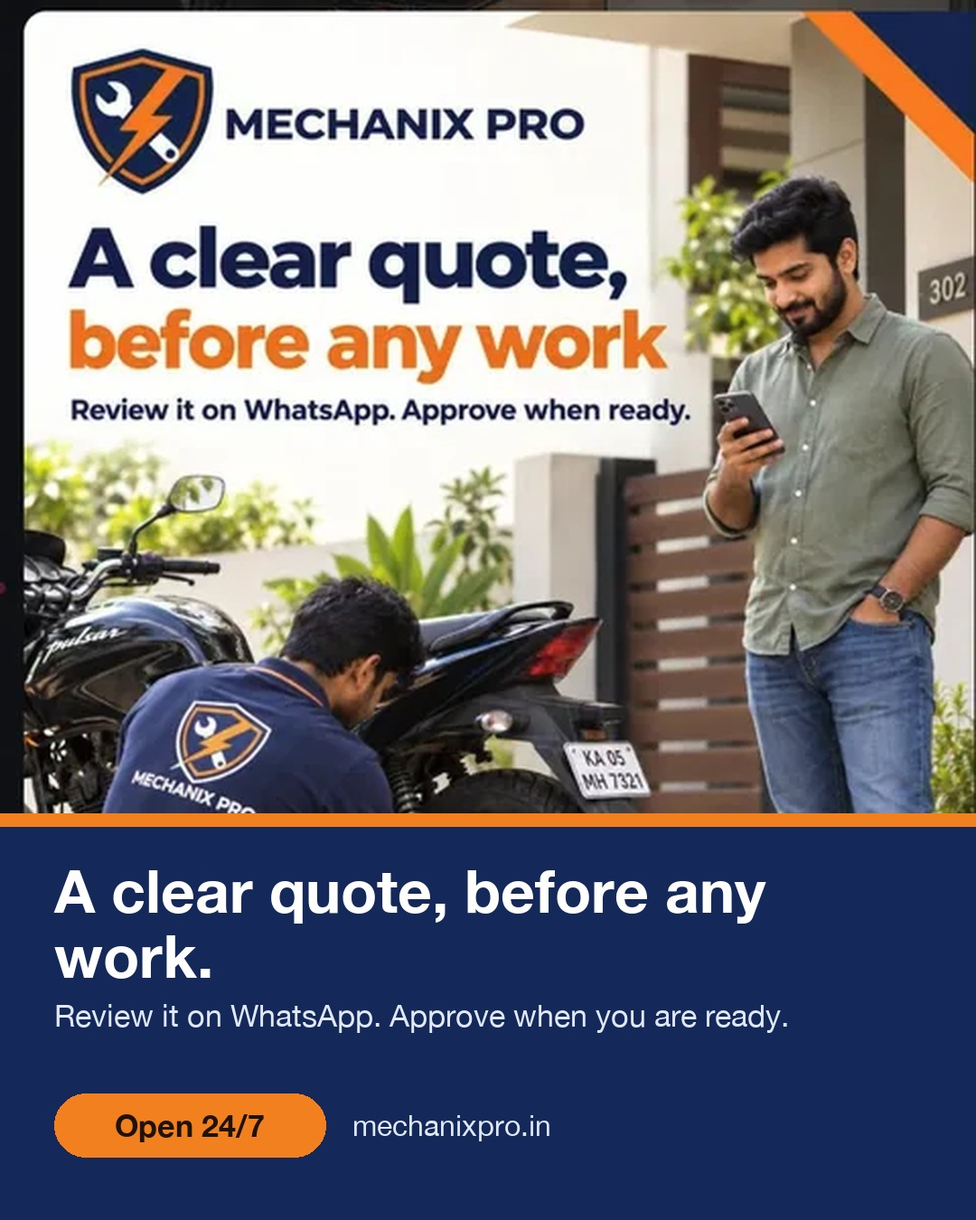
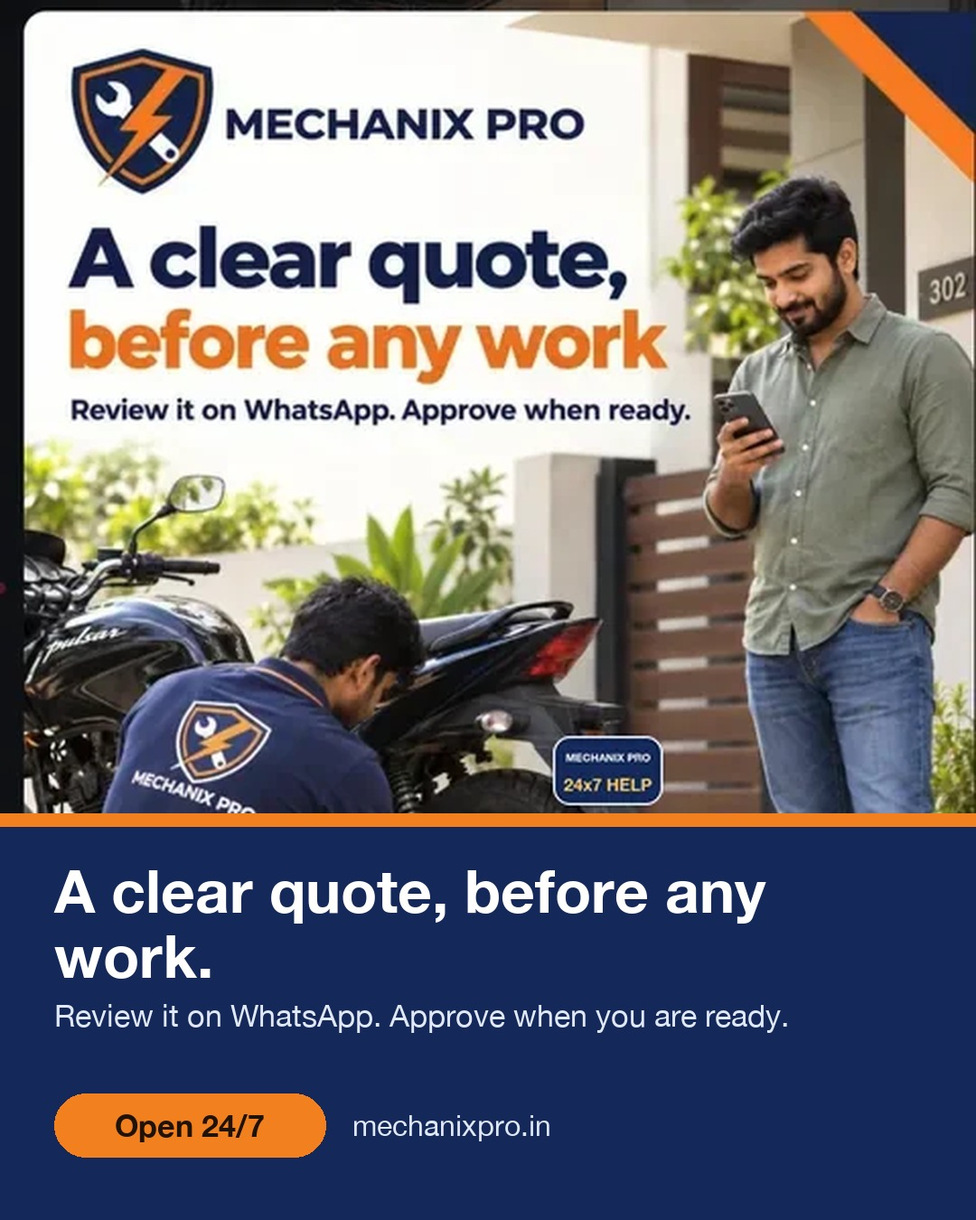
WhatsApp journey messages (quote ready, booking confirmed, service done), number plates covered with a branded plate in the site pictures

Changed region(s): [[0.55, 0.5911, 0.7028, 0.6844]]

diff --git a/src/home.html b/src/home.html
@@ -32,7 +32,7 @@
         <div class="pv-total tear"><span>Estimate, GST included</span><b id="pvPrice">₹0</b></div>
       </div>
     </div>
-    <figure class="hero-cut"><img src="/assets/img/hero-roadside.webp" width="720" height="927" decoding="async" fetchpriority="high" alt="A Mechanix Pro mechanic in a high-visibility vest repairs a scooter by the roadside while the rider looks on, from our Instagram"></figure>
+    <figure class="hero-cut"><img src="/assets/img/hero-roadside-p.webp" width="720" height="927" decoding="async" fetchpriority="high" alt="A Mechanix Pro mechanic in a high-visibility vest repairs a scooter by the roadside while the rider looks on, from our Instagram"></figure>
   </div>
 </section>
 <div class="ticker" aria-hidden="true"><div class="tk-track"><span>Open 24/7</span><span>Quote first</span><span>Doorstep bike service</span><span>Roadside help</span><span>OEM and aftermarket parts</span><span>{{days}}-day warranty</span><span>Open 24/7</span><span>Quote first</span><span>Doorstep bike service</span><span>Roadside help</span><span>OEM and aftermarket parts</span><span>{{days}}-day warranty</span></div></div>
@@ -85,7 +85,7 @@
     <div class="sec-head"><h2 id="exp-h">See how it feels.</h2><p>From your first message to the finished ride, in three moments. Swipe through.</p></div>
   </div>
   <div class="st-rail-wrap">
-    <ul class="st-rail" tabindex="0" role="region" aria-label="Mechanix Pro experience, scroll sideways" data-stories><li class="st-card"><a class="st-media" href="#" data-wa="general" data-wa-text="Hi Mechanix Pro, I need a quote for my bike in Bengaluru.&#10;Bike model: &#10;Area: "><img src="/assets/img/stories/clear-quote.webp" width="480" height="640" loading="lazy" decoding="async" alt="Scene from our Instagram: a customer checks a quote on their phone while a Mechanix Pro mechanic works on a bike"><span class="st-chip">Ask first</span></a><div class="st-copy"><h3>A clear quote, before any work.</h3><p>Tell us your bike on WhatsApp. You get a quote first and approve it when you are ready.</p><a class="st-go" href="#" data-wa="general" data-wa-text="Hi Mechanix Pro, I need a quote for my bike in Bengaluru.&#10;Bike model: &#10;Area: ">Get a quote <i aria-hidden="true">&rarr;</i></a></div></li><li class="st-card"><a class="st-media" href="/book/?service=repair"><img src="/assets/img/stories/repair-check.webp" width="480" height="640" loading="lazy" decoding="async" alt="Scene from our Instagram: a customer watches a Mechanix Pro mechanic inspect a motorcycle in an apartment parking area"><span class="st-chip">Ask first</span></a><div class="st-copy"><h3>Stop guessing the problem.</h3><p>A problem check finds the cause and quotes the fix before any work starts.</p><a class="st-go" href="/book/?service=repair">Book a problem check <i aria-hidden="true">&rarr;</i></a></div></li><li class="st-card"><a class="st-media" href="/book/"><img src="/assets/img/stories/doorstep-service.webp" width="480" height="640" loading="lazy" decoding="async" alt="Scene from our Instagram: a mechanic crouches beside a motorcycle with a tool tray open on the ground"><span class="st-chip">At your door</span></a><div class="st-copy"><h3>Bike service at your doorstep.</h3><p>Oil check, chain lube, brake adjust and a wash, right where your bike is parked.</p><a class="st-go" href="/book/">Build your service <i aria-hidden="true">&rarr;</i></a></div></li><li class="st-card"><a class="st-media" href="/help/"><img src="/assets/img/stories/doorstep-trust.webp" width="480" height="640" loading="lazy" decoding="async" alt="Scene from our Instagram: a mechanic services a white scooter outside an apartment building"><span class="st-chip">At your door</span></a><div class="st-copy"><h3>Service you can trust.</h3><p>A clear WhatsApp quote before any work, and nothing starts until you say yes.</p><a class="st-go" href="/help/">See how it works <i aria-hidden="true">&rarr;</i></a></div></li><li class="st-card"><a class="st-media" href="/services/"><img src="/assets/img/stories/full-service.webp" width="480" height="640" loading="lazy" decoding="async" alt="Scene from our Instagram: a customer stands beside his motorcycle with a list of checks shown"><span class="st-chip">At your door</span></a><div class="st-copy"><h3>A full bike checkup.</h3><p>Smoother ride, brake check and a polished finish. Starting prices are on our Services page.</p><a class="st-go" href="/services/">See prices <i aria-hidden="true">&rarr;</i></a></div></li><li class="st-card"><a class="st-media" href="/roadside/"><img src="/assets/img/stories/roadside-rain.webp" width="480" height="640" loading="lazy" decoding="async" alt="Scene from our Instagram: a mechanic in a high-visibility vest fixes a scooter by the roadside in the rain"><span class="st-chip">On the road</span></a><div class="st-copy"><h3>Help when you need it.</h3><p>Puncture, battery or breakdown. Share your location and we come to you.</p><a class="st-go" href="/roadside/">Get roadside help <i aria-hidden="true">&rarr;</i></a></div></li></ul>
+    <ul class="st-rail" tabindex="0" role="region" aria-label="Mechanix Pro experience, scroll sideways" data-stories><li class="st-card"><a class="st-media" href="#" data-wa="general" data-wa-text="Hi Mechanix Pro, I need a quote for my bike in Bengaluru.&#10;Bike model: &#10;Area: "><img src="/assets/img/stories/clear-quote-p.webp" width="480" height="640" loading="lazy" decoding="async" alt="Scene from our Instagram: a customer checks a quote on their phone while a Mechanix Pro mechanic works on a bike"><span class="st-chip">Ask first</span></a><div class="st-copy"><h3>A clear quote, before any work.</h3><p>Tell us your bike on WhatsApp. You get a quote first and approve it when you are ready.</p><a class="st-go" href="#" data-wa="general" data-wa-text="Hi Mechanix Pro, I need a quote for my bike in Bengaluru.&#10;Bike model: &#10;Area: ">Get a quote <i aria-hidden="true">&rarr;</i></a></div></li><li class="st-card"><a class="st-media" href="/book/?service=repair"><img src="/assets/img/stories/repair-check-p.webp" width="480" height="640" loading="lazy" decoding="async" alt="Scene from our Instagram: a customer watches a Mechanix Pro mechanic inspect a motorcycle in an apartment parking area"><span class="st-chip">Ask first</span></a><div class="st-copy"><h3>Stop guessing the problem.</h3><p>A problem check finds the cause and quotes the fix before any work starts.</p><a class="st-go" href="/book/?service=repair">Book a problem check <i aria-hidden="true">&rarr;</i></a></div></li><li class="st-card"><a class="st-media" href="/book/"><img src="/assets/img/stories/doorstep-service-p.webp" width="480" height="640" loading="lazy" decoding="async" alt="Scene from our Instagram: a mechanic crouches beside a motorcycle with a tool tray open on the ground"><span class="st-chip">At your door</span></a><div class="st-copy"><h3>Bike service at your doorstep.</h3><p>Oil check, chain lube, brake adjust and a wash, right where your bike is parked.</p><a class="st-go" href="/book/">Build your service <i aria-hidden="true">&rarr;</i></a></div></li><li class="st-card"><a class="st-media" href="/help/"><img src="/assets/img/stories/doorstep-trust-p.webp" width="480" height="640" loading="lazy" decoding="async" alt="Scene from our Instagram: a mechanic services a white scooter outside an apartment building"><span class="st-chip">At your door</span></a><div class="st-copy"><h3>Service you can trust.</h3><p>A clear WhatsApp quote before any work, and nothing starts until you say yes.</p><a class="st-go" href="/help/">See how it works <i aria-hidden="true">&rarr;</i></a></div></li><li class="st-card"><a class="st-media" href="/services/"><img src="/assets/img/stories/full-service-p.webp" width="480" height="640" loading="lazy" decoding="async" alt="Scene from our Instagram: a customer stands beside his motorcycle with a list of checks shown"><span class="st-chip">At your door</span></a><div class="st-copy"><h3>A full bike checkup.</h3><p>Smoother ride, brake check and a polished finish. Starting prices are on our Services page.</p><a class="st-go" href="/services/">See prices <i aria-hidden="true">&rarr;</i></a></div></li><li class="st-card"><a class="st-media" href="/roadside/"><img src="/assets/img/stories/roadside-rain-p.webp" width="480" height="640" loading="lazy" decoding="async" alt="Scene from our Instagram: a mechanic in a high-visibility vest fixes a scooter by the roadside in the rain"><span class="st-chip">On the road</span></a><div class="st-copy"><h3>Help when you need it.</h3><p>Puncture, battery or breakdown. Share your location and we come to you.</p><a class="st-go" href="/roadside/">Get roadside help <i aria-hidden="true">&rarr;</i></a></div></li></ul>
     <div class="wrap st-ctl"><div class="st-dots" data-dots aria-hidden="true"></div><div class="st-btns"><button type="button" class="st-b" data-prev aria-label="Previous">&larr;</button><button type="button" class="st-b" data-next aria-label="Next">&rarr;</button></div></div>
   </div>
   <div class="wrap"><p class="tiny muted st-note">Illustrations from our Instagram, <a href="https://www.instagram.com/themechanixpro/" rel="me noopener" target="_blank">@themechanixpro</a>. They show how a visit works, not a specific customer or job.</p></div>

diff --git a/index.html b/index.html
@@ -73,7 +73,7 @@
         <div class="pv-total tear"><span>Estimate, GST included</span><b id="pvPrice">₹0</b></div>
       </div>
     </div>
-    <figure class="hero-cut"><img src="/assets/img/hero-roadside.webp" width="720" height="927" decoding="async" fetchpriority="high" alt="A Mechanix Pro mechanic in a high-visibility vest repairs a scooter by the roadside while the rider looks on, from our Instagram"></figure>
+    <figure class="hero-cut"><img src="/assets/img/hero-roadside-p.webp" width="720" height="927" decoding="async" fetchpriority="high" alt="A Mechanix Pro mechanic in a high-visibility vest repairs a scooter by the roadside while the rider looks on, from our Instagram"></figure>
   </div>
 </section>
 <div class="ticker" aria-hidden="true"><div class="tk-track"><span>Open 24/7</span><span>Quote first</span><span>Doorstep bike service</span><span>Roadside help</span><span>OEM and aftermarket parts</span><span>30-day warranty</span><span>Open 24/7</span><span>Quote first</span><span>Doorstep bike service</span><span>Roadside help</span><span>OEM and aftermarket parts</span><span>30-day warranty</span></div></div>
@@ -126,7 +126,7 @@
     <div class="sec-head"><h2 id="exp-h">See how it feels.</h2><p>From your first message to the finished ride, in three moments. Swipe through.</p></div>
   </div>
   <div class="st-rail-wrap">
-    <ul class="st-rail" tabindex="0" role="region" aria-label="Mechanix Pro experience, scroll sideways" data-stories><li class="st-card"><a class="st-media" href="#" data-wa="general" data-wa-text="Hi Mechanix Pro, I need a quote for my bike in Bengaluru.&#10;Bike model: &#10;Area: "><img src="/assets/img/stories/clear-quote.webp" width="480" height="640" loading="lazy" decoding="async" alt="Scene from our Instagram: a customer checks a quote on their phone while a Mechanix Pro mechanic works on a bike"><span class="st-chip">Ask first</span></a><div class="st-copy"><h3>A clear quote, before any work.</h3><p>Tell us your bike on WhatsApp. You get a quote first and approve it when you are ready.</p><a class="st-go" href="#" data-wa="general" data-wa-text="Hi Mechanix Pro, I need a quote for my bike in Bengaluru.&#10;Bike model: &#10;Area: ">Get a quote <i aria-hidden="true">&rarr;</i></a></div></li><li class="st-card"><a class="st-media" href="/book/?service=repair"><img src="/assets/img/stories/repair-check.webp" width="480" height="640" loading="lazy" decoding="async" alt="Scene from our Instagram: a customer watches a Mechanix Pro mechanic inspect a motorcycle in an apartment parking area"><span class="st-chip">Ask first</span></a><div class="st-copy"><h3>Stop guessing the problem.</h3><p>A problem check finds the cause and quotes the fix before any work starts.</p><a class="st-go" href="/book/?service=repair">Book a problem check <i aria-hidden="true">&rarr;</i></a></div></li><li class="st-card"><a class="st-media" href="/book/"><img src="/assets/img/stories/doorstep-service.webp" width="480" height="640" loading="lazy" decoding="async" alt="Scene from our Instagram: a mechanic crouches beside a motorcycle with a tool tray open on the ground"><span class="st-chip">At your door</span></a><div class="st-copy"><h3>Bike service at your doorstep.</h3><p>Oil check, chain lube, brake adjust and a wash, right where your bike is parked.</p><a class="st-go" href="/book/">Build your service <i aria-hidden="true">&rarr;</i></a></div></li><li class="st-card"><a class="st-media" href="/help/"><img src="/assets/img/stories/doorstep-trust.webp" width="480" height="640" loading="lazy" decoding="async" alt="Scene from our Instagram: a mechanic services a white scooter outside an apartment building"><span class="st-chip">At your door</span></a><div class="st-copy"><h3>Service you can trust.</h3><p>A clear WhatsApp quote before any work, and nothing starts until you say yes.</p><a class="st-go" href="/help/">See how it works <i aria-hidden="true">&rarr;</i></a></div></li><li class="st-card"><a class="st-media" href="/services/"><img src="/assets/img/stories/full-service.webp" width="480" height="640" loading="lazy" decoding="async" alt="Scene from our Instagram: a customer stands beside his motorcycle with a list of checks shown"><span class="st-chip">At your door</span></a><div class="st-copy"><h3>A full bike checkup.</h3><p>Smoother ride, brake check and a polished finish. Starting prices are on our Services page.</p><a class="st-go" href="/services/">See prices <i aria-hidden="true">&rarr;</i></a></div></li><li class="st-card"><a class="st-media" href="/roadside/"><img src="/assets/img/stories/roadside-rain.webp" width="480" height="640" loading="lazy" decoding="async" alt="Scene from our Instagram: a mechanic in a high-visibility vest fixes a scooter by the roadside in the rain"><span class="st-chip">On the road</span></a><div class="st-copy"><h3>Help when you need it.</h3><p>Puncture, battery or breakdown. Share your location and we come to you.</p><a class="st-go" href="/roadside/">Get roadside help <i aria-hidden="true">&rarr;</i></a></div></li></ul>
+    <ul class="st-rail" tabindex="0" role="region" aria-label="Mechanix Pro experience, scroll sideways" data-stories><li class="st-card"><a class="st-media" href="#" data-wa="general" data-wa-text="Hi Mechanix Pro, I need a quote for my bike in Bengaluru.&#10;Bike model: &#10;Area: "><img src="/assets/img/stories/clear-quote-p.webp" width="480" height="640" loading="lazy" decoding="async" alt="Scene from our Instagram: a customer checks a quote on their phone while a Mechanix Pro mechanic works on a bike"><span class="st-chip">Ask first</span></a><div class="st-copy"><h3>A clear quote, before any work.</h3><p>Tell us your bike on WhatsApp. You get a quote first and approve it when you are ready.</p><a class="st-go" href="#" data-wa="general" data-wa-text="Hi Mechanix Pro, I need a quote for my bike in Bengaluru.&#10;Bike model: &#10;Area: ">Get a quote <i aria-hidden="true">&rarr;</i></a></div></li><li class="st-card"><a class="st-media" href="/book/?service=repair"><img src="/assets/img/stories/repair-check-p.webp" width="480" height="640" loading="lazy" decoding="async" alt="Scene from our Instagram: a customer watches a Mechanix Pro mechanic inspect a motorcycle in an apartment parking area"><span class="st-chip">Ask first</span></a><div class="st-copy"><h3>Stop guessing the problem.</h3><p>A problem check finds the cause and quotes the fix before any work starts.</p><a class="st-go" href="/book/?service=repair">Book a problem check <i aria-hidden="true">&rarr;</i></a></div></li><li class="st-card"><a class="st-media" href="/book/"><img src="/assets/img/stories/doorstep-service-p.webp" width="480" height="640" loading="lazy" decoding="async" alt="Scene from our Instagram: a mechanic crouches beside a motorcycle with a tool tray open on the ground"><span class="st-chip">At your door</span></a><div class="st-copy"><h3>Bike service at your doorstep.</h3><p>Oil check, chain lube, brake adjust and a wash, right where your bike is parked.</p><a class="st-go" href="/book/">Build your service <i aria-hidden="true">&rarr;</i></a></div></li><li class="st-card"><a class="st-media" href="/help/"><img src="/assets/img/stories/doorstep-trust-p.webp" width="480" height="640" loading="lazy" decoding="async" alt="Scene from our Instagram: a mechanic services a white scooter outside an apartment building"><span class="st-chip">At your door</span></a><div class="st-copy"><h3>Service you can trust.</h3><p>A clear WhatsApp quote before any work, and nothing starts until you say yes.</p><a class="st-go" href="/help/">See how it works <i aria-hidden="true">&rarr;</i></a></div></li><li class="st-card"><a class="st-media" href="/services/"><img src="/assets/img/stories/full-service-p.webp" width="480" height="640" loading="lazy" decoding="async" alt="Scene from our Instagram: a customer stands beside his motorcycle with a list of checks shown"><span class="st-chip">At your door</span></a><div class="st-copy"><h3>A full bike checkup.</h3><p>Smoother ride, brake check and a polished finish. Starting prices are on our Services page.</p><a class="st-go" href="/services/">See prices <i aria-hidden="true">&rarr;</i></a></div></li><li class="st-card"><a class="st-media" href="/roadside/"><img src="/assets/img/stories/roadside-rain-p.webp" width="480" height="640" loading="lazy" decoding="async" alt="Scene from our Instagram: a mechanic in a high-visibility vest fixes a scooter by the roadside in the rain"><span class="st-chip">On the road</span></a><div class="st-copy"><h3>Help when you need it.</h3><p>Puncture, battery or breakdown. Share your location and we come to you.</p><a class="st-go" href="/roadside/">Get roadside help <i aria-hidden="true">&rarr;</i></a></div></li></ul>
     <div class="wrap st-ctl"><div class="st-dots" data-dots aria-hidden="true"></div><div class="st-btns"><button type="button" class="st-b" data-prev aria-label="Previous">&larr;</button><button type="button" class="st-b" data-next aria-label="Next">&rarr;</button></div></div>
   </div>
   <div class="wrap"><p class="tiny muted st-note">Illustrations from our Instagram, <a href="https://www.instagram.com/themechanixpro/" rel="me noopener" target="_blank">@themechanixpro</a>. They show how a visit works, not a specific customer or job.</p></div>

diff --git a/supabase/functions/desk-automation/index.ts b/supabase/functions/desk-automation/index.ts
@@ -3,6 +3,7 @@
 //   1. campaigns: once AiSensy approves a desk template, create its API campaign (no one has to press a button)
 //   2. sla: email the supervisors when a customer has waited 15 minutes for a reply, or a new lead has no owner after 15 minutes
 //   3. rating: ask a customer to rate the job, once, a couple of hours after it is completed
+//   4. journey: tell the customer when the quote is ready, when the booking is confirmed with the mechanic, and when the service is done (each once)
 import { adminDb, env, json, safeEqual, getSetting, istHour } from '../_shared/util.ts';
 import { PROJECT_API } from '../_shared/aisensy-project.ts';
 import { sendCampaign } from '../_shared/aisensy-send.ts';
@@ -10,6 +11,7 @@ import { DESK_TEMPLATES } from '../_shared/desk-templates.ts';
 import { ratingToken, ratingUrl } from '../_shared/rating.ts';
 import { sendEmail } from '../_shared/resend.ts';
 import { supervisorEmails } from '../_shared/desk-notify.ts';
+import { formatWhen } from '../_shared/when.ts';
 
 const OPEN = ['new', 'contacted', 'quoted', 'payment_sent'];
 const MIN = 60_000;
@@ -103,6 +105,47 @@ Deno.serve(async (req) => {
       result.rating = { sent: sentN, failed: failN }; if (sentN || failN) await log('rating', failN === 0, { sent: sentN, failed: failN });
     }
   } catch (e) { result.rating = { error: String((e as Error).message) }; await log('rating', false, { error: String((e as Error).message) }); }
+
+  /* 4. journey messages: quote ready, booking confirmed, service done. Only for jobs that changed after the switch-on time, each once per job (a revised quote goes once more). */
+  try {
+    const ready = await getSetting<Record<string, boolean>>(db, 'desk_campaigns', {});
+    if (await getSetting(db, 'desk_auto_journey', true) && env('AISENSY_API_KEY')) {
+      const since = new Date(Math.max(Date.parse(String(await getSetting(db, 'desk_journey_since', new Date().toISOString()))) || 0, Date.now() - 24 * 3600_000)).toISOString();
+      const tpl = (n: string) => DESK_TEMPLATES.find((t) => t.name === n)!;
+      type Job = { l: any; kind: string; t: string; params: string[]; note: string };
+      const jobs: Job[] = [];
+      const base = () => db.from('leads').select('id,ref,name,phone,area,est_total,status,preferred_date,preferred_slot,mechanic_id,completed_at,address').is('deleted_at', null).eq('consent_whatsapp', true).eq('opted_out', false).gt('updated_at', since).limit(30);
+      if (ready[tpl('mxp_quote_ready').campaign]) {
+        const { data } = await base().eq('status', 'quoted').gt('est_total', 0);
+        for (const l of data ?? []) jobs.push({ l, kind: 'journey_quote:' + Math.round(l.est_total), t: 'mxp_quote_ready', params: [String(l.name).split(' ')[0], l.ref, String(Math.round(l.est_total))], note: 'Quote sent automatically' });
+      }
+      if (ready[tpl('mxp_booking_confirmed').campaign]) {
+        const { data } = await base().eq('status', 'scheduled').not('mechanic_id', 'is', null).not('preferred_date', 'is', null);
+        const mids = [...new Set((data ?? []).map((l: any) => l.mechanic_id))];
+        const { data: ms } = mids.length ? await db.from('mechanics').select('id,name').in('id', mids) : { data: [] };
+        for (const l of data ?? []) { const m = (ms ?? []).find((x: any) => x.id === l.mechanic_id); jobs.push({ l, kind: 'journey_booked:' + l.preferred_date + ':' + l.preferred_slot + ':' + l.mechanic_id, t: 'mxp_booking_confirmed', params: [String(l.name).split(' ')[0], l.ref, formatWhen(l.preferred_date, l.preferred_slot), String(m?.name ?? 'from our team').split(' ')[0], l.area || 'your address'], note: 'Booking confirmation sent automatically' }); }
+      }
+      if (ready[tpl('mxp_service_done').campaign]) {
+        const { data } = await base().eq('status', 'completed').not('completed_at', 'is', null);
+        for (const l of data ?? []) jobs.push({ l, kind: 'journey_done', t: 'mxp_service_done', params: [String(l.name).split(' ')[0], l.ref], note: 'Service-done message sent automatically' });
+      }
+      const ids = [...new Set(jobs.map((j) => j.l.id))];
+      const { data: sent } = ids.length ? await db.from('crm_alerts_sent').select('lead_id,kind').in('lead_id', ids) : { data: [] };
+      let sentN = 0, failN = 0;
+      for (const j of jobs.filter((x) => !(sent ?? []).some((s: any) => s.lead_id === x.l.id && s.kind === x.kind)).slice(0, 12)) {
+        const t = tpl(j.t);
+        const r = await sendCampaign({ apiKey: env('AISENSY_API_KEY'), campaignName: t.campaign, phone: j.l.phone, name: j.l.name, params: j.params, source: 'mechanix-desk-journey' });
+        // Mark it either way so a failing number is not retried every three minutes; the log shows the failure.
+        await db.from('crm_alerts_sent').upsert({ lead_id: j.l.id, kind: j.kind }, { onConflict: 'lead_id,kind', ignoreDuplicates: true });
+        if (r.ok) {
+          sentN++;
+          await db.from('messages').insert({ lead_id: j.l.id, phone: j.l.phone, direction: 'out', sender: 'system', body: j.note }).then(() => {}, () => {});
+          await db.from('crm_activities').insert({ lead_id: j.l.id, actor: null, kind: 'whatsapp', body: j.note + ' on WhatsApp' }).then(() => {}, () => {});
+        } else { failN++; console.error('journey', j.t, j.l.ref, r.error); }
+      }
+      result.journey = { sent: sentN, failed: failN }; if (sentN || failN) await log('journey', failN === 0, { sent: sentN, failed: failN });
+    }
+  } catch (e) { result.journey = { error: String((e as Error).message) }; await log('journey', false, { error: String((e as Error).message) }); }
 
   await db.from('settings').upsert({ key: 'desk_automation_heartbeat', value: { at: new Date().toISOString(), result } }, { onConflict: 'key' }).then(() => {}, () => {});
   return json(req, { ok: true, ...result });

diff --git a/supabase/functions/_shared/desk-templates.ts b/supabase/functions/_shared/desk-templates.ts
@@ -12,6 +12,15 @@ export const DESK_TEMPLATES: DeskTemplate[] = [
   { campaign: 'mxp_desk_followup', name: 'mxp_desk_followup', label: 'Desk follow-up', category: 'MARKETING',
     text: 'Hi {{1}}, this is {{2}} from Mechanix Pro about your bike service enquiry. When would you like us to come to you?',
     sample: 'Hi [Name], this is [Agent] from Mechanix Pro about your bike service enquiry. When would you like us to come to you?', params: 2 },
+  { campaign: 'mxp_quote_ready', name: 'mxp_quote_ready', label: 'Quote ready', category: 'UTILITY',
+    text: 'Hi {{1}}, your Mechanix Pro quote for booking {{2}} is ready: Rs {{3}}, GST included. Nothing starts until you approve it. Reply YES to go ahead, or tell us what to change.',
+    sample: 'Hi [Name], your Mechanix Pro quote for booking [Booking] is ready: Rs [Amount], GST included. Nothing starts until you approve it. Reply YES to go ahead, or tell us what to change.', params: 3 },
+  { campaign: 'mxp_booking_confirmed', name: 'mxp_booking_confirmed', label: 'Booking confirmed', category: 'UTILITY',
+    text: 'Hi {{1}}, your Mechanix Pro booking {{2}} is confirmed for {{3}}. Your mechanic {{4}} will come to {{5}}. Reply here if you need to change anything.',
+    sample: 'Hi [Name], your Mechanix Pro booking [Booking] is confirmed for [When]. Your mechanic [Mechanic] will come to [Area]. Reply here if you need to change anything.', params: 5 },
+  { campaign: 'mxp_service_done', name: 'mxp_service_done', label: 'Service done', category: 'UTILITY',
+    text: 'Hi {{1}}, your bike service for booking {{2}} is done. Our 30-day service warranty has started, and your GST invoice is on its way. Reply here if anything feels off.',
+    sample: 'Hi [Name], your bike service for booking [Booking] is done. Our 30-day service warranty has started, and your GST invoice is on its way. Reply here if anything feels off.', params: 2 },
 ];
 
 /** Number of distinct {{n}} placeholders, and whether they run 1..n with no gaps (WhatsApp requires that). */

diff --git a/dist-crm/assets/js/config.js b/dist-crm/assets/js/config.js
@@ -2,7 +2,7 @@
    Only PUBLIC values go here. Never put secret keys in this file:
    it is downloaded by every visitor. Secrets live in Supabase Edge Function secrets. */
 window.MXP = {
-  whatsapp: '918310621498',        // Business WhatsApp number: 91 + 10 digits, no spaces or +
+  whatsapp: '918042303061',        // Business WhatsApp number (the desk number on AiSensy): 91 + 10 digits, no spaces or +
   callNumber: '918310621498',      // Number customers call (91 + 10 digits). Leave as is to reuse the WhatsApp number
   phoneDisplay: '+91 83106 21498', // Shown on the site
   email: 'hello@mechanixpro.in',
@@ -19,5 +19,6 @@ window.MXP = {
   googleAddressSearch: false,      // true shows address search in the booking form. Turn on only after Places API (New) works for the key
   helperStyle: 'ab',               // The helper character: 'pro' (mechanic), 'sphere', or 'ab' (half the visitors see each, so you can compare)
   apolloAppId: '6ac9ea0d24cdaa0014db50b0', // Apollo website tracker. Loads only on the Fleets and Apartments pages
+  diwaliOffer: '',                 // Optional line shown in the Diwali banner and card, e.g. 'Use code DIWALI at booking.' Leave empty for no offer line. Only write an offer that is live.
   metaPixelId: '',                 // Meta (Instagram and Facebook) Pixel ID, digits only
 };

diff --git a/crm/pages/team.js b/crm/pages/team.js
@@ -92,6 +92,7 @@ function automationPanel(a) {
   return `<h3>Automation</h3><div class="card auto">
     <div class="auto-grid">${row('rating', 'Ask for a rating after each job', 'Two hours after a job is completed, once, 9 AM to 8 PM. Low ratings open a ticket and email the supervisors.')}
       ${row('sla', 'Alert when a customer waits', 'An email to the supervisors after 15 minutes without an answer, or a new lead with no owner.')}
+      ${row('journey', 'Keep the customer posted on WhatsApp', 'Sends a message when the quote is ready, when the booking is confirmed with the mechanic’s name, and when the service is done. Each once per job.')}
       ${row('report', 'Daily report at 9:30 PM', 'Leads, bookings, ratings and each Care Buddy’s day, emailed to the supervisors.')}</div>
     <ul class="auto-status">
       <li>${dot(live(poll && poll.at, 20) || !cron.some((c) => c.name === 'desk-poll-replies'))} Customer replies checked ${poll ? ago(poll.at) : 'not yet'}${poll ? ` (${poll.checked} leads)` : ''}</li>

diff --git a/dist-crm/crm/pages/team.js b/dist-crm/crm/pages/team.js
@@ -92,6 +92,7 @@ function automationPanel(a) {
   return `<h3>Automation</h3><div class="card auto">
     <div class="auto-grid">${row('rating', 'Ask for a rating after each job', 'Two hours after a job is completed, once, 9 AM to 8 PM. Low ratings open a ticket and email the supervisors.')}
       ${row('sla', 'Alert when a customer waits', 'An email to the supervisors after 15 minutes without an answer, or a new lead with no owner.')}
+      ${row('journey', 'Keep the customer posted on WhatsApp', 'Sends a message when the quote is ready, when the booking is confirmed with the mechanic’s name, and when the service is done. Each once per job.')}
       ${row('report', 'Daily report at 9:30 PM', 'Leads, bookings, ratings and each Care Buddy’s day, emailed to the supervisors.')}</div>
     <ul class="auto-status">
       <li>${dot(live(poll && poll.at, 20) || !cron.some((c) => c.name === 'desk-poll-replies'))} Customer replies checked ${poll ? ago(poll.at) : 'not yet'}${poll ? ` (${poll.checked} leads)` : ''}</li>

diff --git a/tests/content.test.js b/tests/content.test.js
@@ -69,7 +69,7 @@ test('every model photo file is listed in the credits data and nothing else is s
 
 test('the home page shows real photos for the hero and the five bike types, not drawings', () => {
   const h = read('index.html');
-  assert.match(h, /class="hero-cut"[\s\S]*hero-roadside\.webp/);
+  assert.match(h, /class="hero-cut"[\s\S]*hero-roadside-p\.webp/);
   for (const slug of ['honda-dio', 'hero-splendor-plus', 'bajaj-pulsar-ns160', 'royal-enfield-bullet-350', 'ola-electric-s1-pro']) assert.ok(h.includes('/assets/img/models/' + slug + '.webp'), slug);
   assert.doesNotMatch(h, /hero-bike\.svg|type-(scooter|commuter|sports|cruiser|electric)\.svg/);
 });

diff --git a/scripts/hide_plates.py b/scripts/hide_plates.py
@@ -1,0 +1,29 @@
+#!/usr/bin/env python3
+"""Covers the number plates in the Instagram creatives with a branded plate ("MECHANIX PRO / 24x7 HELP"), so no real-looking registration number is shown on the site.
+Reads assets/img/stories/<name>.webp (the untouched original, kept outside git history if you re-export it) and writes <name>-p.webp. The -p files are what the site uses. Needs Pillow. Run: python3 scripts/hide_plates.py"""
+import os
+from PIL import Image, ImageDraw, ImageFont
+ROOT = os.path.dirname(os.path.dirname(os.path.abspath(__file__)))
+FONT = '/System/Library/Fonts/HelveticaNeue.ttc'
+def plate(im, box):
+    x0, y0, x1, y1 = box; w, h = x1 - x0, y1 - y0
+    p = Image.new('RGBA', (w * 4, h * 4), (0, 0, 0, 0)); d = ImageDraw.Draw(p)
+    d.rounded_rectangle((0, 0, w * 4 - 1, h * 4 - 1), radius=h, fill=(20, 41, 90, 255), outline=(255, 255, 255, 255), width=max(4, h // 7))
+    def fit(txt, size):
+        f = ImageFont.truetype(FONT, size, index=1)
+        while d.textlength(txt, font=f) > w * 4 * .82 and size > 8:
+            size -= 2; f = ImageFont.truetype(FONT, size, index=1)
+        return f
+    f1 = fit('MECHANIX PRO', int(h * 4 * .26)); f2 = fit('24x7 HELP', int(h * 4 * .40))
+    d.text((w * 2, int(h * 4 * .31)), 'MECHANIX PRO', font=f1, fill=(255, 255, 255, 255), anchor='mm')
+    d.text((w * 2, int(h * 4 * .70)), '24x7 HELP', font=f2, fill=(255, 200, 87, 255), anchor='mm')
+    p = p.resize((w, h), Image.LANCZOS); base = im.convert('RGBA'); base.alpha_composite(p, (x0, y0)); return base
+STORIES = {'roadside-rain': (0, 398, 64, 436), 'repair-check': (106, 316, 200, 350), 'clear-quote': (272, 362, 326, 396), 'full-service': (272, 295, 336, 322)}
+for n, box in STORIES.items():
+    src = os.path.join(ROOT, f'assets/img/stories/{n}.webp')
+    if not os.path.exists(src): continue  # the site already uses the finished -p file
+    im = Image.open(src)
+    plate(im, box).convert('RGB').save(os.path.join(ROOT, f'assets/img/stories/{n}-p.webp'), quality=84, method=6)
+for n in ('doorstep-service', 'doorstep-trust'):  # no plate visible: same picture under the new name so every card follows one naming rule
+    if os.path.exists(os.path.join(ROOT, f'assets/img/stories/{n}.webp')): Image.open(os.path.join(ROOT, f'assets/img/stories/{n}.webp')).save(os.path.join(ROOT, f'assets/img/stories/{n}-p.webp'), quality=84, method=6)
+print('done')

diff --git a/scripts/make_presence.py b/scripts/make_presence.py
@@ -65,7 +65,7 @@ def highlight(label, path):
 for lbl in ('Services', 'Roadside', 'How it works', 'Prices', 'Reviews', 'Join us'): highlight(lbl, os.path.join(PACK, 'highlight-' + lbl.lower().replace(' ', '-') + '.jpg'))
 def post(story, title, sub, path):
     W, H = 1080, 1350; img = Image.new('RGB', (W, H), NAVY); d = ImageDraw.Draw(img)
-    pic = Image.open(os.path.join(ROOT, f'assets/img/stories/{story}.webp')).convert('RGB'); pic = pic.resize((W, int(W * pic.size[1] / pic.size[0])), Image.LANCZOS)
+    pic = Image.open(os.path.join(ROOT, f'assets/img/stories/{story}-p.webp')).convert('RGB'); pic = pic.resize((W, int(W * pic.size[1] / pic.size[0])), Image.LANCZOS)
     img.paste(pic.crop((0, 0, W, 900)), (0, 0)); d.rectangle((0, 900, W, H), fill=NAVY); d.rectangle((0, 900, W, 914), fill=EMBER)
     tl = wrap(d, title, F(66), W - 120)[:2]
     for i, ln in enumerate(tl): d.text((60, 945 + i * 72), ln, font=F(66), fill='white')

diff --git a/docs/AISENSY-DESK.md b/docs/AISENSY-DESK.md
@@ -93,3 +93,20 @@ The bubble is the site's own, not AiSensy's script: it keeps the strict content 
 - It qualifies enquiries (bike model, service, area, PIN code, slot), never states a price (it points to mechanixpro.in/services and says the team sends the quote), never creates payment links (the team sends the Razorpay link for the initial booking amount, or the customer pays at mechanixpro.in/pay), puts safety first on accidents, and hands over to a person on complaints, refunds, accidents and roadside emergencies.
 - The stale product list (it had Basic service at ₹499) was removed so the agent cannot quote old prices.
 - The "Push qualified leads to your CRM" setting (to the `aisensy-lead` function, header `x-aisensy-secret`) did not keep its values after saving in AiSensy, so leads from the agent are not yet pushed to the desk. After going live, check that screen again.
+
+
+## Customer journey messages (added 2026-10-23)
+The desk now keeps the customer posted on WhatsApp on its own, from the same scheduled job as the rating request (`desk-automation`, every 3 minutes, 24/7). Each message is sent **once per job** and is logged in the lead's activity. One switch, **Keep the customer posted on WhatsApp**, is on the Team screen under Automation.
+
+| When the desk shows | Template | Message |
+|---|---|---|
+| Status **Quoted** with a total | `mxp_quote_ready` | "Your quote for booking X is Rs N, GST included. Nothing starts until you approve it. Reply YES…" (a revised total sends once more) |
+| Status **Scheduled** with a mechanic and a slot | `mxp_booking_confirmed` | Booking confirmed for the slot, the mechanic's first name and the area |
+| Status **Completed** | `mxp_service_done` | Service done, the 30-day service warranty has started, the GST invoice is on its way |
+| Two hours after Completed | `mxp_desk_rating_link` | Rating request with the signed link (already live) |
+| Payment link button | `mxp_desk_payment_link` | Payment link (already live) |
+
+Rules: only customers who agreed to WhatsApp and have not opted out; only jobs that changed after the switch-on time (`desk_journey_since`) and in the last 24 hours, so old leads never get a burst of messages; the first message of a job never repeats.
+
+**To go live:** open the desk, Team, WhatsApp setup, and press **Submit templates**. WhatsApp must approve the three new templates (usually within a day). The desk then creates their API campaigns by itself, with no further action.
+Not built, because the desk has no such status yet: "mechanic is on the way". It needs an "en route" step in the mechanic flow first.
